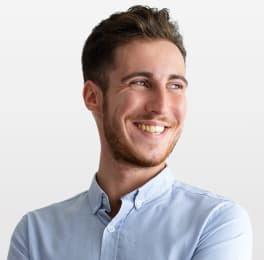
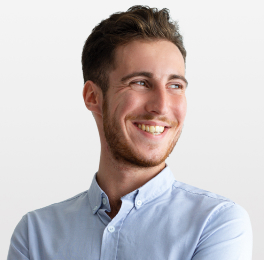
rw7

diff --git a/index.html b/index.html
@@ -141,7 +141,8 @@
         <div class="container">
         <h2 class="our-team">Our Team</h2>
         <ul class="our-team-list list">
-        <li class="team-img team-li"><img src="./images/mark-guerrero.jpg" alt="bearded man in a shirt" width="264"/>
+        <li class="team-img team-li">
+            <img srcset="./images/mark-guerrero.jpg 1x, ./images/mark-guerrero@2x.jpg 2x" src="./images/mark-guerrero.jpg" alt="bearded man in a shirt" width="264"/>
             <div class="name-position">
                 <h3 class="title-name-team">Mark Guerrero</h3>
                 <p class="small-text text-our-team">Product Designer</p>
@@ -168,7 +169,8 @@
                 </svg></a></li></ul>
             </div>
         </li>
-        <li class="team-img team-li"><img src="./images/tom-ford.jpg" alt="the man in the shirt is smiling" width="264"/>
+        <li class="team-img team-li">
+            <img srcset="./images/tom-ford.jpg 1x, ./images/tom-ford@2x.jpg 2x" src="./images/tom-ford.jpg" alt="the man in the shirt is smiling" width="264"/>
             <div class="name-position">
             <h3 class="title-name-team">Tom Ford</h3>
             <p class="small-text text-our-team">Frontend Developer</p>
@@ -195,7 +197,8 @@
                 </svg></a></li></ul>
         </div>
         </li>
-        <li class="team-img team-li"><img src="./images/camila-garcia.jpg" alt="a girl in a pink sweater" width="264"/>
+        <li class="team-img team-li">
+            <img srcset="./images/camila-garcia.jpg 1x, ./images/camila-garcia@2x.jpg 2x" src="./images/camila-garcia.jpg" alt="a girl in a pink sweater" width="264"/>
             <div class="name-position">
             <h3 class="title-name-team">Camila Garcia</h3>
             <p class="small-text text-our-team">Marketing</p>
@@ -222,7 +225,8 @@
                 </svg></a></li></ul>
         </div>
         </li>
-        <li class="team-img team-li"><img src="./images/daniel-wilson.jpg" alt="a man in a t-shirt" width="264"/>
+        <li class="team-img team-li">
+            <img srcset="./images/daniel-wilson.jpg 1x, ./images/daniel-wilson@2x.jpg 2x" src="./images/daniel-wilson.jpg" alt="a man in a t-shirt" width="264"/>
             <div class="name-position">
             <h3 class="title-name-team">Daniel Wilson</h3>
             <p class="small-text text-our-team">UI Designer</p>
